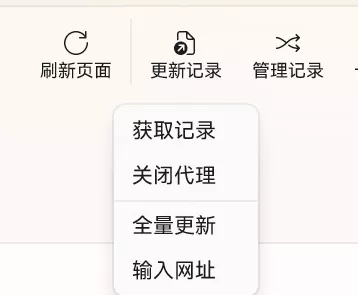
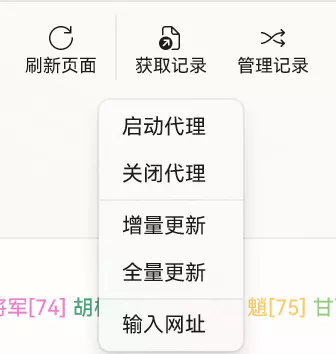
update

diff --git a/docs/help/xunkong/wishlog.md b/docs/help/xunkong/wishlog.md
@@ -9,7 +9,11 @@
 
 ![get-wishlog](./img/img-get-wishlog.webp)
 
-首先点击此处的**获取记录**，如果祈愿记录网址已过期，则会显示如下内容，点击**启动代理**。
+获取记录中有上图的五个按键，网址已过期或添加新账号则点击**启动代理**，网址有效期是 24 小时，在这期间则点击**增量更新**，部分非常火爆的卡池可能会出现短时间内记录缺失的现象，请等一段时间后点击**全量更新**。
+
+## 启动代理
+
+首先点击此处的**启动代理**，弹出以下对话框。
 
 ![start-proxy](./img/img-wishlog-start-proxy.webp)
 
@@ -26,15 +30,11 @@
 
 ![proxy-cert](./img/img-wishlog-get-url-toast.webp)
 
-最后返回到第一步，再次点击获取记录。
-
-部分非常火爆的卡池可能会出现短时间内记录缺失的现象，请等一段时间后点击**全量更新**，如果没有安装原神但有日志的网址可以点击**输入网址**。
+之后应用会自动获取新网址的祈愿记录。
 
 ## 需要注意地方
 
 获取到网址后，应用会自动关闭代理，不排除关闭失败的情况，如果应用内出现**目标积极拒绝**的错误，需要手动关闭代理后重启应用。
-
-获取到网址后，应用左上角的选择框内会显示相关的 Uid，如果没有出现，则可能出现了未知的错误。
 
 获取到网址后，会把该网址复制到剪贴板，出现了异常情况，也可以通过输入网址获取记录。
 
